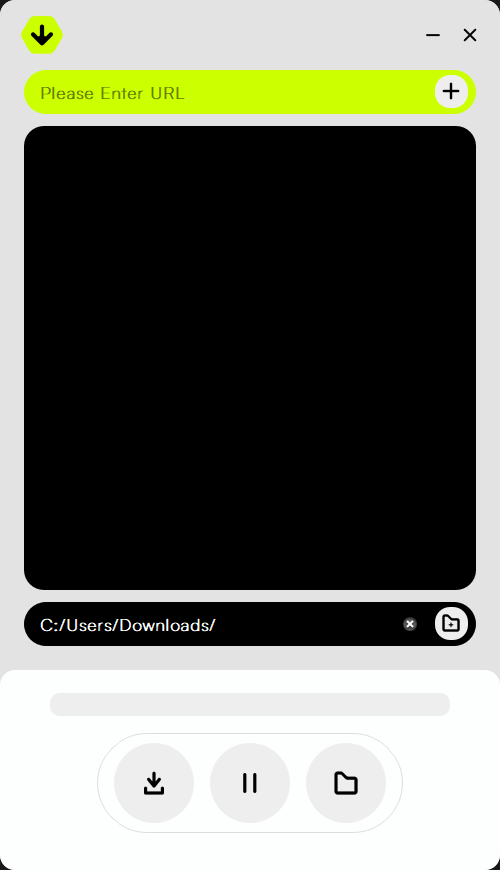
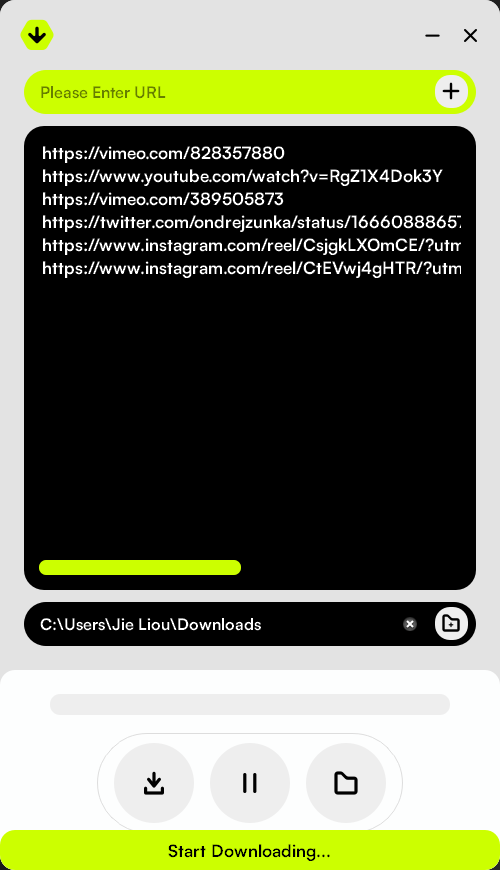
Update 1.0.0

diff --git a/README.md b/README.md
@@ -7,6 +7,18 @@ Dowdle is an easy-to-use video downloader. All codes were generated with the ass
 
 [Google Drive](https://drive.google.com/drive/folders/1dsVgH8NIt6kY3KN02aHDfXjz2SbAchcK?usp=sharing)
 
+⚠ Note: The MacOS version is compatible with MacOS 13 and above.
+
+## **Usage & Limitations**
+
+
+- Simply open the Dowdle.exe or Dowdle.app file - there's **no installation needed**!
+- Paste a video URL and click '**Download**'.
+- If you have multiple videos to download, just paste the video URLs, then click the '**Add**' button or press '**Enter**'.
+- Even better, you can copy a link, then click the '**Add**' button or press '**Enter**'. The link will automatically be added to the list.
+- By default, the download path is set to your '**Downloads**' folder. However, you can customize this location as per your preference.
+- Dowdle relies on yt-dlp for downloading videos. Sometimes, certain websites may temporarily block downloads. If this happens, you might need to wait for a while or for a new release of the software.
+- In case of a new release, whether for bug fixes or new features, a notification will pop up when you launch the app.
 
 ## **Disclaimer & Terms of Use**
 
